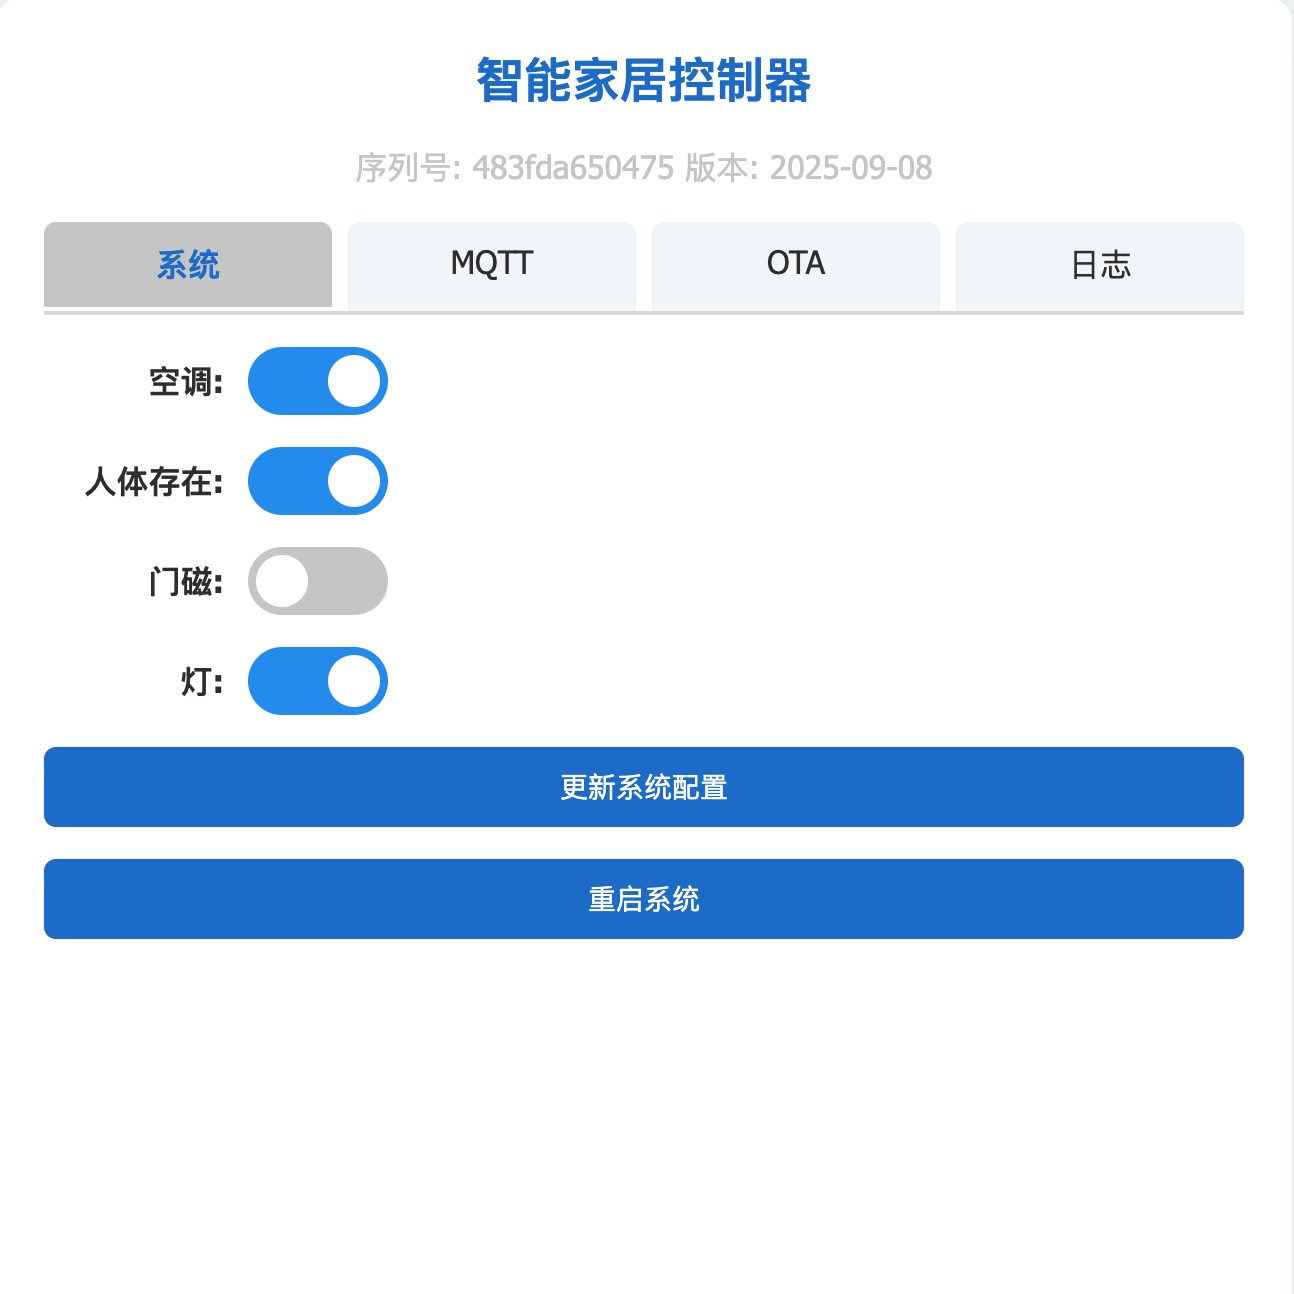
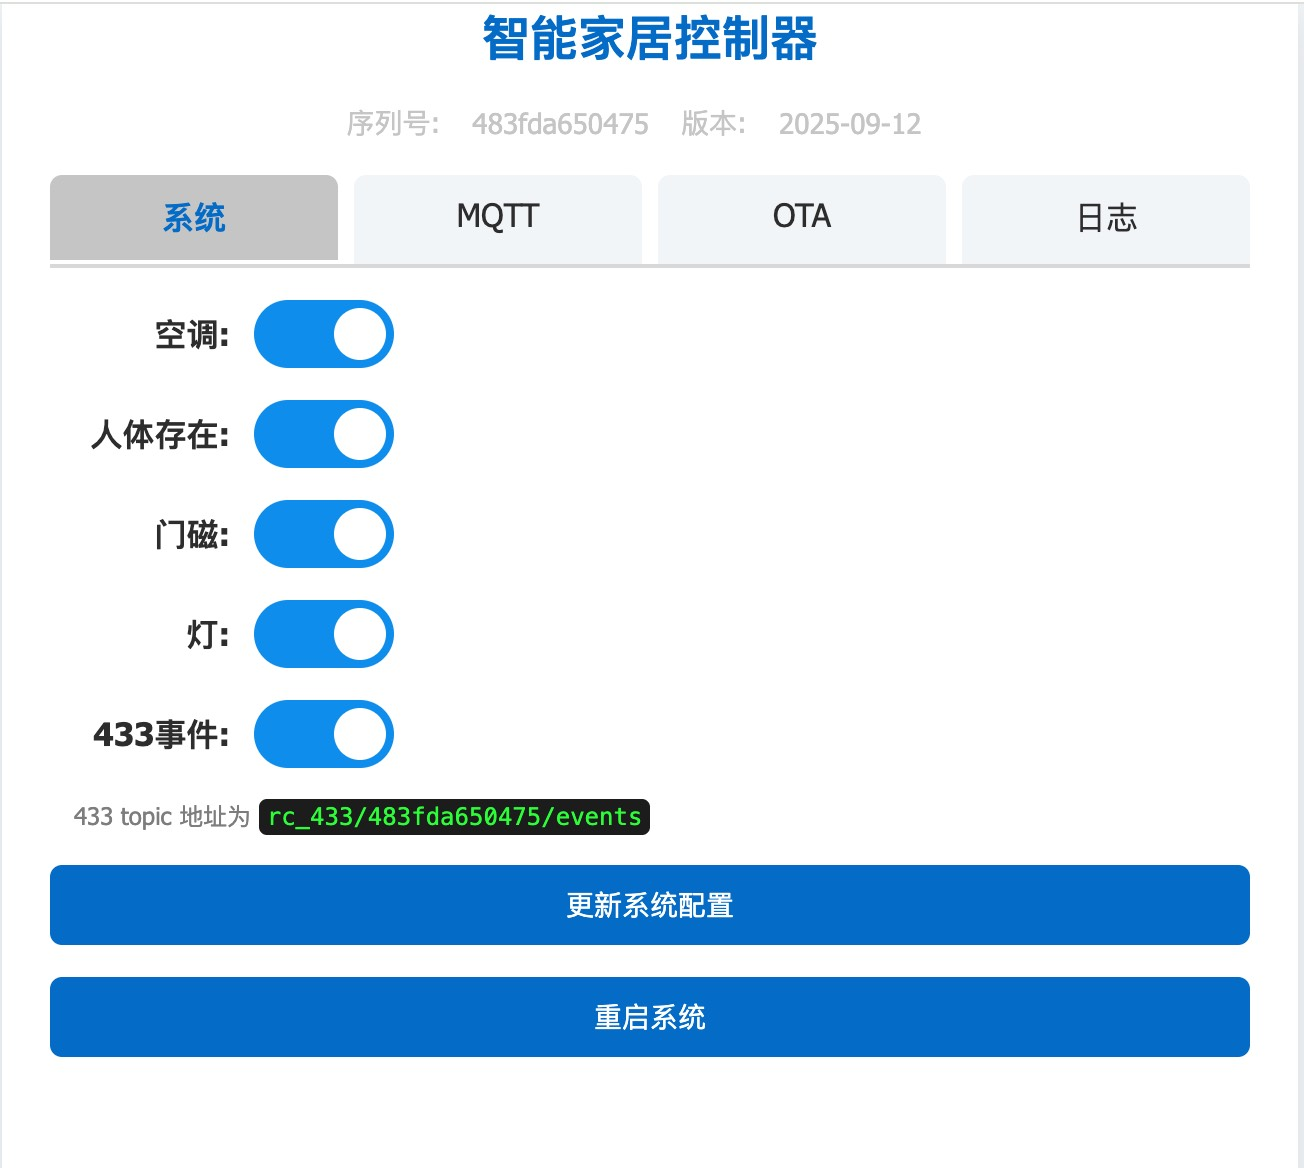
说明

diff --git a/README.md b/README.md
@@ -14,6 +14,7 @@
 - MQTT 协议远程通信
 - Web Server 提供网页控制界面
 - WiFi 配网与联网
+- 433 信号发送到 mqtt 可通过 home assistant 自动化处理
 
 ## 快速开始
 
@@ -43,6 +44,8 @@
    - 设备联网后，访问设备 IP 即可打开网页控制界面 控制页面可以选择开启的功能
      ![系统](imgs/系统.jpg)
    - 可在 mqtt 或初始化配网页面配置服务器地址密码等
+   - 可在 HomeAssistant 自动化处接收 433 事件
+     ![automation](imgs/automation.jpg)
    - 可在 OTA 页面上传固件升级
    - 可在日志页面看到系统日志和 433 无线设备码
      ![日志](imgs/日志.jpg)
